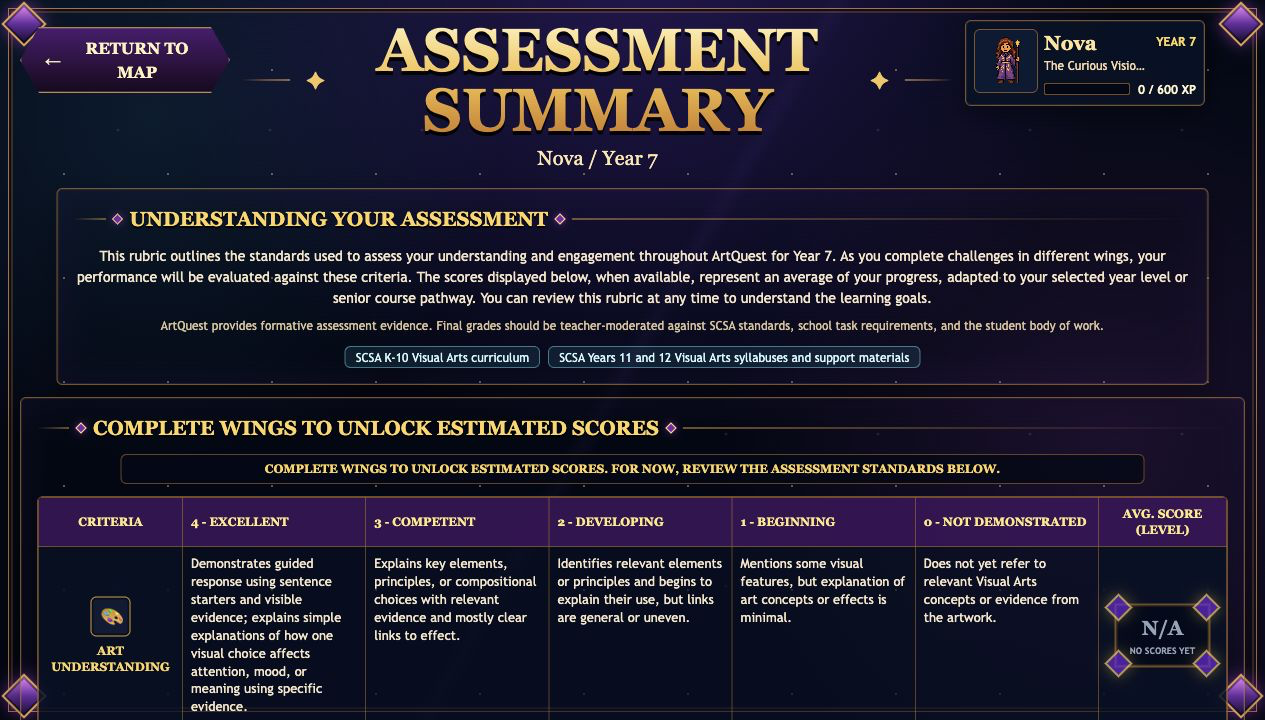
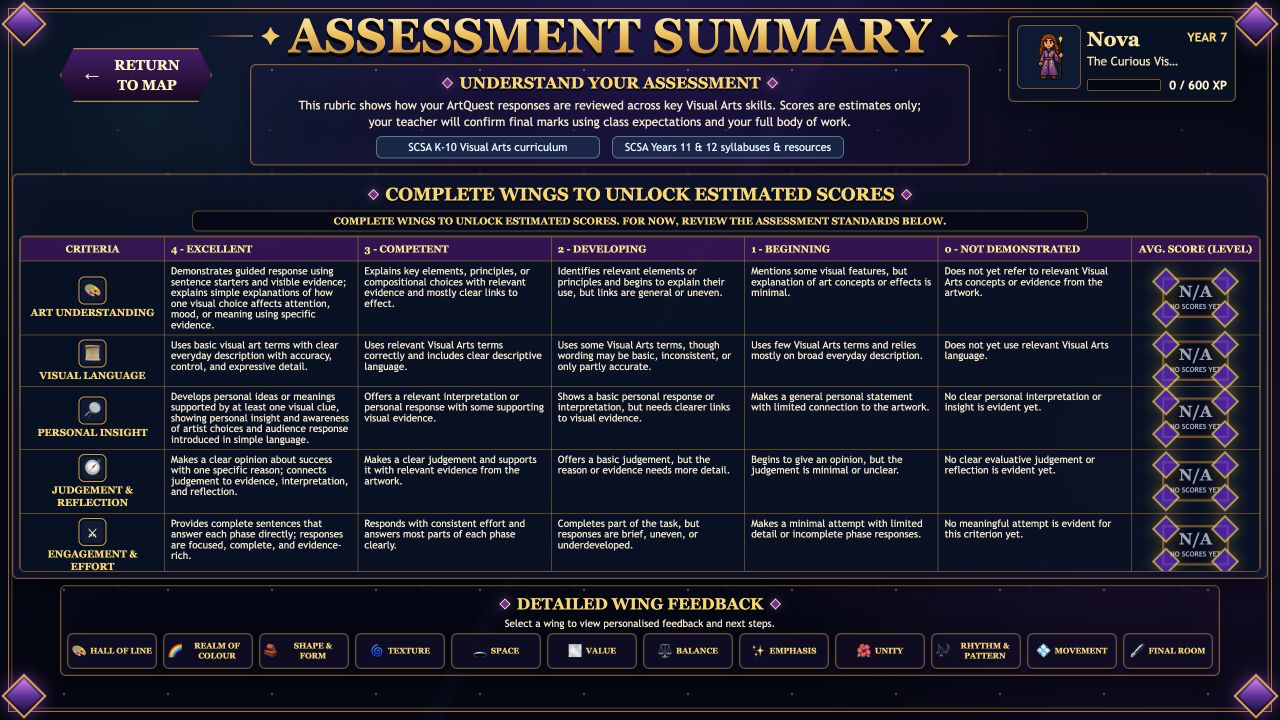
game guide update - assessment

diff --git a/index.html b/index.html
@@ -23446,20 +23446,21 @@ const GUIDE_TABS = [
         id: 'assessment',
         title: 'Assessment',
         shortTitle: 'Assess',
-        explanation: 'Assessment Summary translates completed journal evidence into curriculum-aligned criteria, levels, and feedback.',
+        explanation: 'Assessment Summary turns completed journal evidence into formative estimates across key Visual Arts skills, with a rubric and detailed feedback for every wing.',
         keyPoints: [
-            'The rubric adapts to the selected year level or senior pathway.',
-            'Scores appear after journal entries are completed.',
-            'Criteria connect gameplay evidence to visual arts learning goals.',
-            'Teachers can use the summary as formative evidence alongside their own judgement.',
+            'The rubric adapts to the selected level or pathway and describes each achievement band.',
+            'Complete wings and journal entries to unlock estimated scores.',
+            'Select a completed wing for personalised feedback and next steps.',
+            'Scores are formative; teachers confirm final marks.',
         ],
         screenshotSrc: './public/images/screens/guide/assessment.png',
-        screenshotAlt: 'ArtQuest assessment summary screen showing rubric criteria and level descriptors.',
+        screenshotAlt: 'ArtQuest Assessment Summary showing the assessment overview, rubric table, score column, and Detailed Wing Feedback buttons.',
         callouts: [
-            { number: 1, label: 'Assessment Context', description: 'The top panel explains how the selected level is assessed.', left: '50%', top: '22%' },
-            { number: 2, label: 'Rubric Criteria', description: 'Rows show the assessed visual arts skills.', left: '13%', top: '55%' },
-            { number: 3, label: 'Level Descriptors', description: 'Columns describe achievement from beginning to excellent.', left: '55%', top: '55%' },
-            { number: 4, label: 'Estimated Level', description: 'The final column shows estimated progress once journal evidence exists.', left: '90%', top: '55%' },
+            { number: 1, label: 'Assessment Overview', description: 'Explains that the rubric provides formative estimates and teachers confirm final marks.', left: '50%', top: '15%' },
+            { number: 2, label: 'Assessment Criteria', description: 'Rows show the five Visual Arts skills assessed from journal evidence.', left: '7.5%', top: '56%' },
+            { number: 3, label: 'Achievement Levels', description: 'Columns describe evidence from Excellent through to Not Demonstrated.', left: '49%', top: '34.5%' },
+            { number: 4, label: 'Average Score', description: 'Shows the estimated level for each criterion after completed wings are recorded.', left: '93%', top: '56%' },
+            { number: 5, label: 'Detailed Wing Feedback', description: 'Select a completed wing to see personalised feedback and next steps.', left: '50%', top: '84.5%' },
         ],
     },
     {

diff --git a/components/GameGuideScreen.tsx b/components/GameGuideScreen.tsx
@@ -205,20 +205,21 @@ const GUIDE_TABS: GuideTab[] = [
     id: 'assessment',
     title: 'Assessment',
     shortTitle: 'Assess',
-    explanation: 'Assessment Summary translates completed journal evidence into curriculum-aligned criteria, levels, and feedback.',
+    explanation: 'Assessment Summary turns completed journal evidence into formative estimates across key Visual Arts skills, with a rubric and detailed feedback for every wing.',
     keyPoints: [
-      'The rubric adapts to the selected year level or senior pathway.',
-      'Scores appear after journal entries are completed.',
-      'Criteria connect gameplay evidence to visual arts learning goals.',
-      'Teachers can use the summary as formative evidence alongside their own judgement.',
+      'The rubric adapts to the selected level or pathway and describes each achievement band.',
+      'Complete wings and journal entries to unlock estimated scores.',
+      'Select a completed wing for personalised feedback and next steps.',
+      'Scores are formative; teachers confirm final marks.',
     ],
     screenshotSrc: './public/images/screens/guide/assessment.png',
-    screenshotAlt: 'ArtQuest assessment summary screen showing rubric criteria and level descriptors.',
+    screenshotAlt: 'ArtQuest Assessment Summary showing the assessment overview, rubric table, score column, and Detailed Wing Feedback buttons.',
     callouts: [
-      { number: 1, label: 'Assessment Context', description: 'The top panel explains how the selected level is assessed.', left: '50%', top: '22%' },
-      { number: 2, label: 'Rubric Criteria', description: 'Rows show the assessed visual arts skills.', left: '13%', top: '55%' },
-      { number: 3, label: 'Level Descriptors', description: 'Columns describe achievement from beginning to excellent.', left: '55%', top: '55%' },
-      { number: 4, label: 'Estimated Level', description: 'The final column shows estimated progress once journal evidence exists.', left: '90%', top: '55%' },
+      { number: 1, label: 'Assessment Overview', description: 'Explains that the rubric provides formative estimates and teachers confirm final marks.', left: '50%', top: '15%' },
+      { number: 2, label: 'Assessment Criteria', description: 'Rows show the five Visual Arts skills assessed from journal evidence.', left: '7.5%', top: '56%' },
+      { number: 3, label: 'Achievement Levels', description: 'Columns describe evidence from Excellent through to Not Demonstrated.', left: '49%', top: '34.5%' },
+      { number: 4, label: 'Average Score', description: 'Shows the estimated level for each criterion after completed wings are recorded.', left: '93%', top: '56%' },
+      { number: 5, label: 'Detailed Wing Feedback', description: 'Select a completed wing to see personalised feedback and next steps.', left: '50%', top: '84.5%' },
     ],
   },
   {
